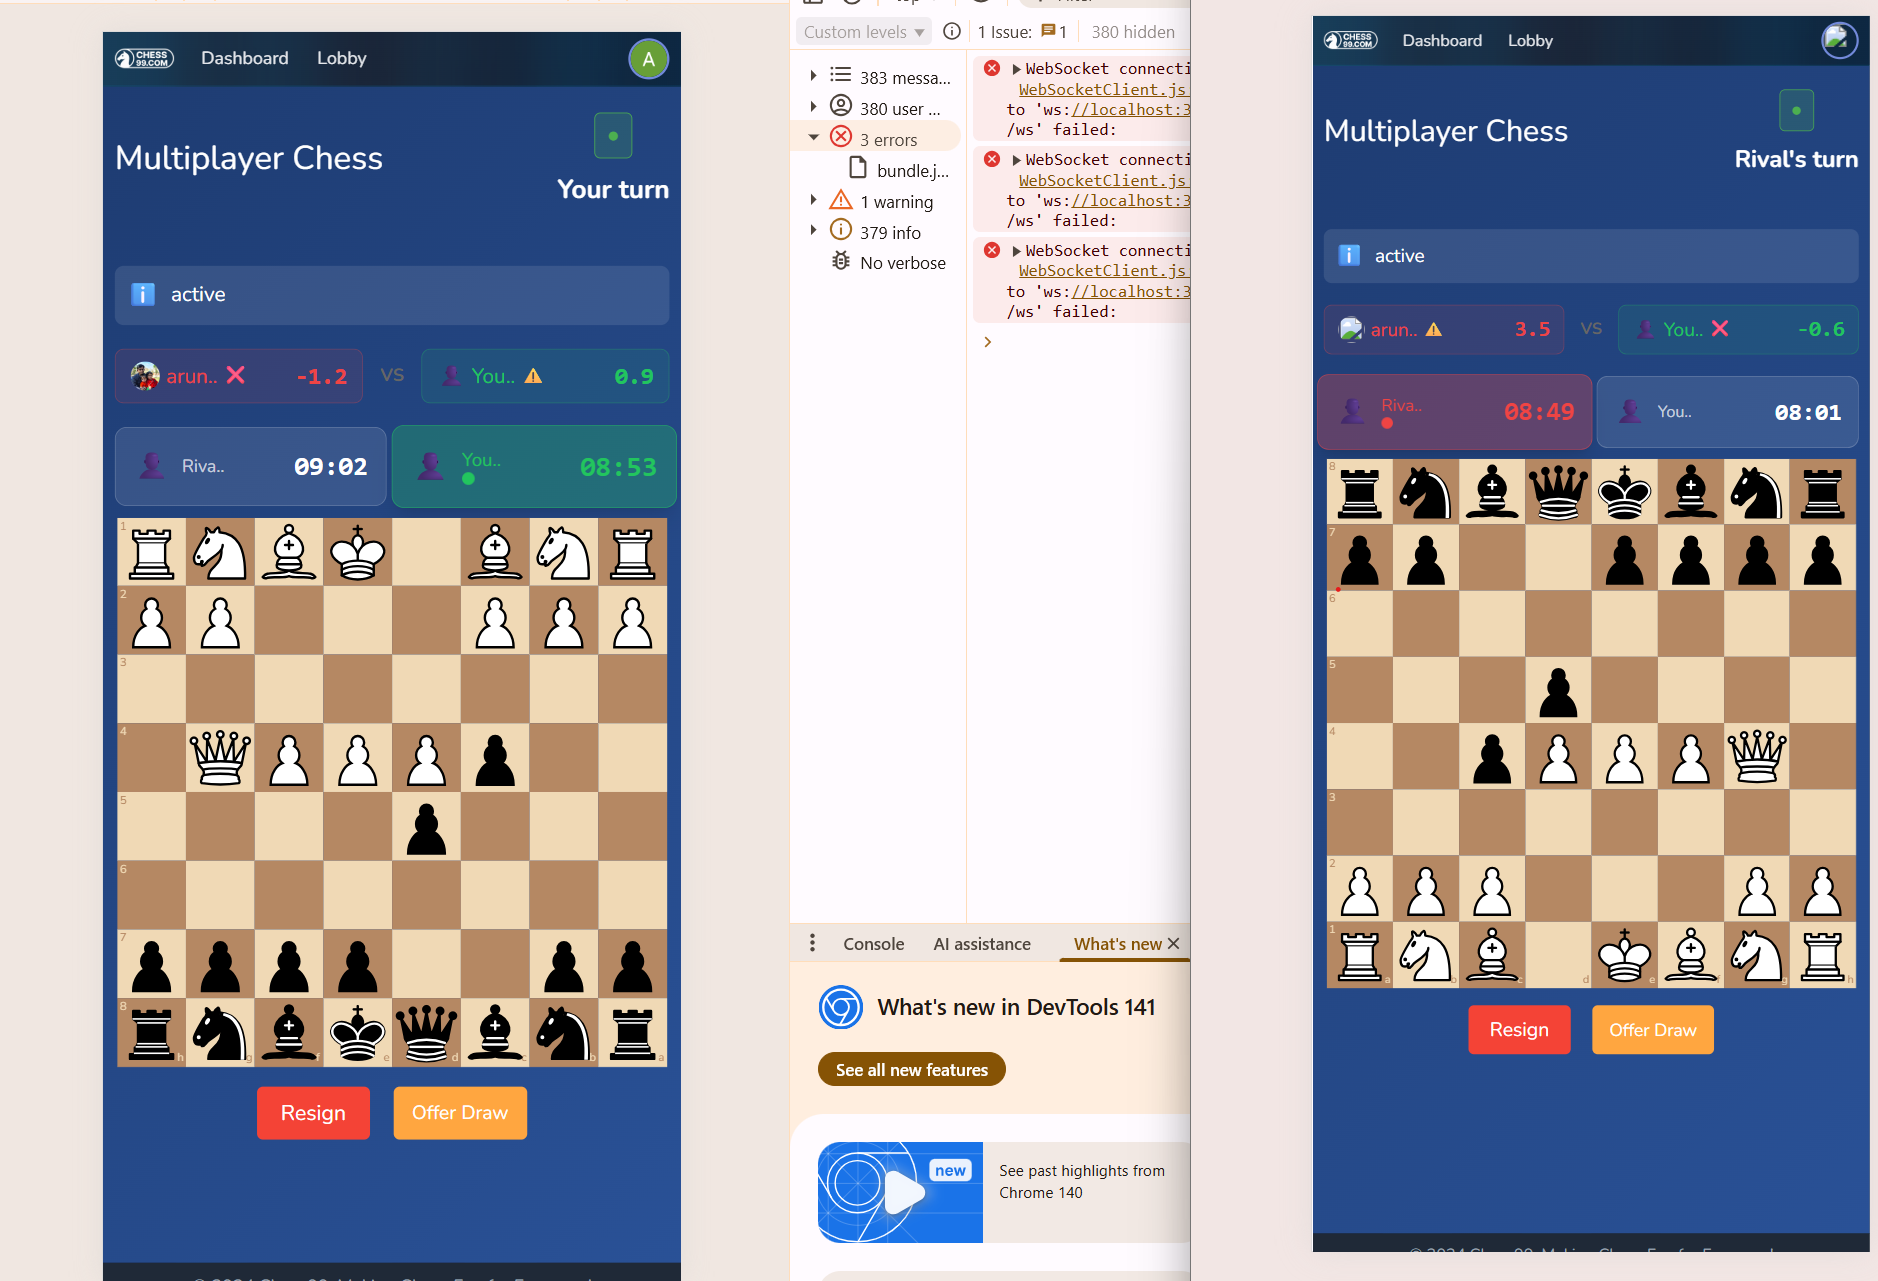
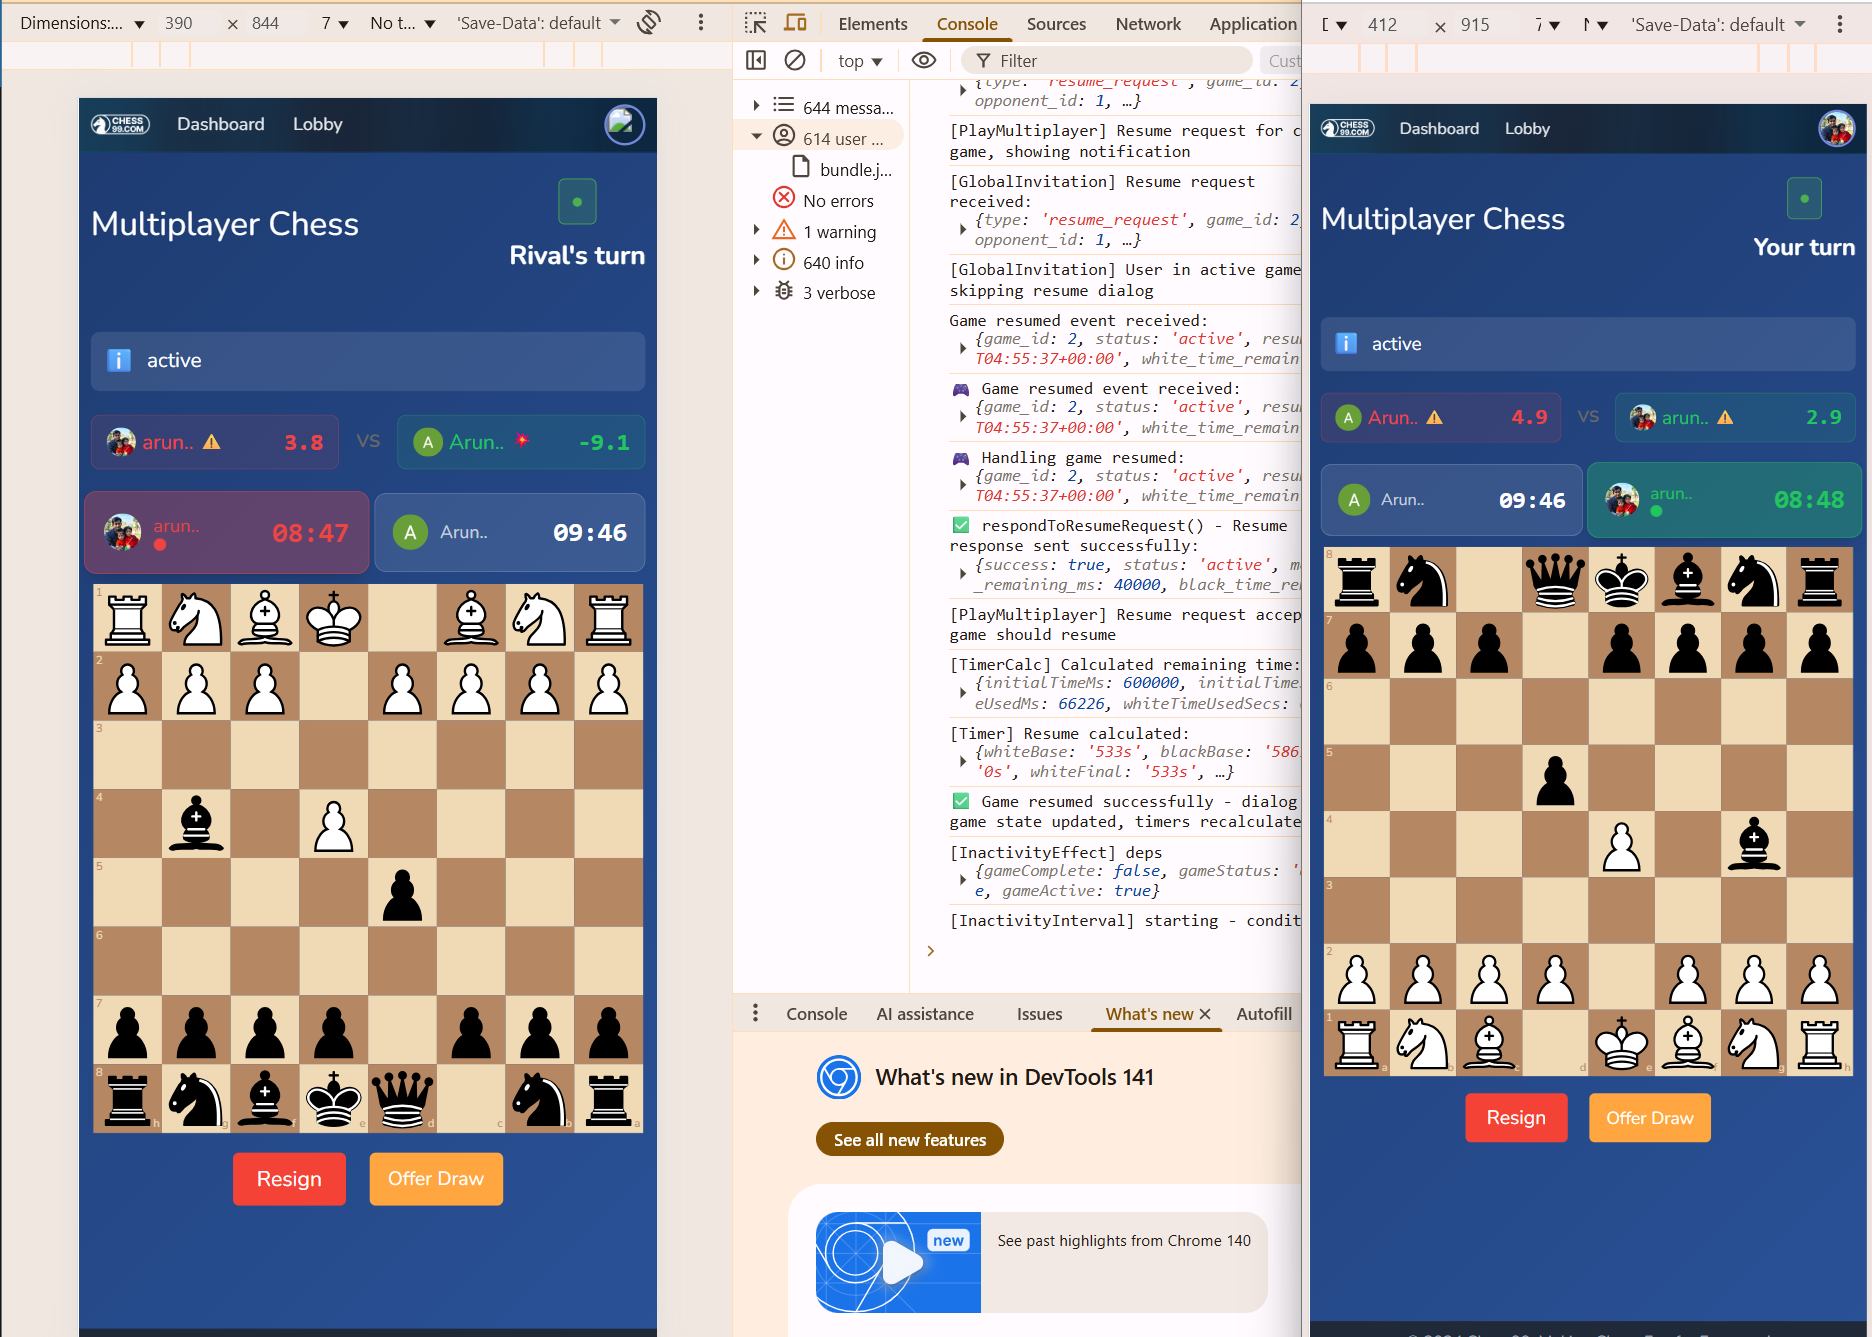
Users being properly displayed in timer and scores rows

diff --git a/chess-frontend/src/components/play/ScoreDisplay.js b/chess-frontend/src/components/play/ScoreDisplay.js
@@ -2,7 +2,16 @@
 import React from "react";
 import { truncatePlayerName, getPlayerAvatar } from '../../utils/playerDisplayUtils';
 
-const ScoreDisplay = ({ playerScore, lastMoveEvaluation, computerScore, lastComputerEvaluation, isOnlineGame, players, playerColor }) => {
+const ScoreDisplay = ({
+  playerScore,
+  lastMoveEvaluation,
+  computerScore,
+  lastComputerEvaluation,
+  isOnlineGame,
+  mode = 'computer',
+  playerData = null,
+  opponentData = null
+}) => {
   const formatScore = (score) => {
     return typeof score === "number" ? score.toFixed(1) : "0.0";
   };
@@ -19,10 +28,43 @@ const ScoreDisplay = ({ playerScore, lastMoveEvaluation, computerScore, lastComp
     }
   };
 
-  const playerData = isOnlineGame && players ? players[playerColor] : null;
-  const opponentData = isOnlineGame && players ? players[playerColor === 'w' ? 'b' : 'w'] : null;
-  const playerName = playerData?.name || "You";
-  const opponentName = opponentData?.name || "CPU";
+  // Helper function to render avatar or icon
+  const renderAvatar = (data, isComputer = false) => {
+    if (isComputer || mode === 'computer') {
+      // Show computer icon for computer mode
+      return <span style={{ fontSize: '14px' }}>🤖</span>;
+    }
+
+    // For multiplayer, show player avatar if available
+    const avatarUrl = getPlayerAvatar(data);
+    if (avatarUrl) {
+      return (
+        <img
+          src={avatarUrl}
+          alt={data?.name || data?.user?.name || 'Player'}
+          style={{
+            width: '20px',
+            height: '20px',
+            borderRadius: '50%',
+            objectFit: 'cover'
+          }}
+        />
+      );
+    }
+
+    // No avatar available - don't show anything
+    return null;
+  };
+
+  // Helper function to get display name
+  const getDisplayName = (data, isComputer = false, fallback = 'Player') => {
+    if (isComputer || mode === 'computer') {
+      return 'CPU';
+    }
+    // Handle both naming conventions: data.name or data.user.name
+    const name = data?.name || data?.user?.name;
+    return truncatePlayerName(name || fallback);
+  };
 
   return (
     <div style={{
@@ -44,24 +86,9 @@ const ScoreDisplay = ({ playerScore, lastMoveEvaluation, computerScore, lastComp
         flex: '1'
       }}>
         <div style={{ display: 'flex', alignItems: 'center', gap: '4px' }}>
-          {isOnlineGame && getPlayerAvatar(opponentData) ? (
-            <img
-              src={getPlayerAvatar(opponentData)}
-              alt={opponentName}
-              style={{
-                width: '20px',
-                height: '20px',
-                borderRadius: '50%',
-                objectFit: 'cover'
-              }}
-            />
-          ) : (
-            <span style={{ fontSize: '14px' }}>
-              {isOnlineGame ? '👤' : '🤖'}
-            </span>
-          )}
+          {renderAvatar(opponentData, mode === 'computer')}
           <span style={{ fontSize: '14px', color: '#ef4444', fontWeight: '500' }}>
-            {isOnlineGame ? truncatePlayerName(opponentName) : opponentName}
+            {getDisplayName(opponentData, mode === 'computer', 'Rival')}
           </span>
           {lastComputerEvaluation && (
             <span style={{ fontSize: '12px', color: '#ef4444' }}>
@@ -102,22 +129,9 @@ const ScoreDisplay = ({ playerScore, lastMoveEvaluation, computerScore, lastComp
         flex: '1'
       }}>
         <div style={{ display: 'flex', alignItems: 'center', gap: '4px' }}>
-          {isOnlineGame && getPlayerAvatar(playerData) ? (
-            <img
-              src={getPlayerAvatar(playerData)}
-              alt={playerName}
-              style={{
-                width: '20px',
-                height: '20px',
-                borderRadius: '50%',
-                objectFit: 'cover'
-              }}
-            />
-          ) : (
-            <span style={{ fontSize: '14px' }}>👤</span>
-          )}
+          {renderAvatar(playerData, false)}
           <span style={{ fontSize: '14px', color: '#22c55e', fontWeight: '500' }}>
-            {isOnlineGame ? truncatePlayerName(playerName) : playerName}
+            {getDisplayName(playerData, false, 'You')}
           </span>
           {lastMoveEvaluation && (
             <span style={{ fontSize: '12px', color: '#22c55e' }}>

diff --git a/chess-frontend/src/components/play/GameContainer.js b/chess-frontend/src/components/play/GameContainer.js
@@ -187,10 +187,10 @@ const GameContainer = ({
               {activeTimer === playerColor && (
                 <span style={{ display: 'inline-block', width: '6px', height: '6px', backgroundColor: '#22c55e', borderRadius: '50%', marginRight: '4px', animation: 'pulse 2s infinite' }}></span>
               )}
-              {playerData?.avatar_url ? (
+              {getPlayerAvatar(playerData) && (
                 <img
-                  src={playerData.avatar_url}
-                  alt={playerData.name || 'You'}
+                  src={getPlayerAvatar(playerData)}
+                  alt={playerData?.name || 'You'}
                   style={{
                     width: '24px',
                     height: '24px',
@@ -198,10 +198,6 @@ const GameContainer = ({
                     objectFit: 'cover'
                   }}
                 />
-              ) : (
-                <span style={{ fontSize: '16px', color: '#22c55e' }}>
-                  👤
-                </span>
               )}
               <div style={{ display: 'flex', flexDirection: 'column', flex: 1 }}>
                 <span style={{ fontSize: '12px', color: '#22c55e', fontWeight: '500' }}>You</span>
@@ -255,7 +251,7 @@ const GameContainer = ({
             {!isMyTurn && (
               <span style={{ display: 'inline-block', width: '6px', height: '6px', backgroundColor: '#ef4444', borderRadius: '50%', marginRight: '4px', animation: 'pulse 2s infinite' }}></span>
             )}
-            {getPlayerAvatar(opponentData) ? (
+            {getPlayerAvatar(opponentData) && (
               <img
                 src={getPlayerAvatar(opponentData)}
                 alt={opponentData?.name || opponentName}
@@ -266,10 +262,6 @@ const GameContainer = ({
                   objectFit: 'cover'
                 }}
               />
-            ) : (
-              <span style={{ fontSize: '16px', color: !isMyTurn ? '#ef4444' : '#ccc' }}>
-                👤
-              </span>
             )}
             <span style={{ fontSize: '14px', color: !isMyTurn ? '#ef4444' : '#ccc', fontWeight: '500' }}>
               {truncatePlayerName(opponentData?.name || opponentName)}
@@ -310,7 +302,7 @@ const GameContainer = ({
             {isMyTurn && (
               <span style={{ display: 'inline-block', width: '6px', height: '6px', backgroundColor: '#22c55e', borderRadius: '50%', marginRight: '4px', animation: 'pulse 2s infinite' }}></span>
             )}
-            {getPlayerAvatar(playerData) ? (
+            {getPlayerAvatar(playerData) && (
               <img
                 src={getPlayerAvatar(playerData)}
                 alt={playerData?.name || 'You'}
@@ -321,10 +313,6 @@ const GameContainer = ({
                   objectFit: 'cover'
                 }}
               />
-            ) : (
-              <span style={{ fontSize: '16px', color: isMyTurn ? '#22c55e' : '#ccc' }}>
-                👤
-              </span>
             )}
             <span style={{ fontSize: '14px', color: isMyTurn ? '#22c55e' : '#ccc', fontWeight: '500' }}>
               {truncatePlayerName(playerData?.name || 'You')}
@@ -376,13 +364,9 @@ const GameContainer = ({
           computerScore={computerScore}
           lastComputerEvaluation={mode === 'computer' ? lastComputerEvaluation : lastOpponentEvaluation}
           isOnlineGame={isOnlineGame}
-          players={mode === 'multiplayer' ? {
-            'w': gameDataObj?.white_player,
-            'b': gameDataObj?.black_player
-          } : players}
-          playerColor={mode === 'multiplayer' && typeof playerColor === 'string' && playerColor.length > 1
-            ? (playerColor === 'white' ? 'w' : 'b')
-            : playerColor}
+          mode={mode}
+          playerData={playerData}
+          opponentData={opponentData}
         />
 
         {/* TimerDisplay - Both modes */}

diff --git a/chess-frontend/src/components/lobby/InvitationsList.jsx b/chess-frontend/src/components/lobby/InvitationsList.jsx
@@ -31,8 +31,8 @@ const InvitationsList = ({
               <div key={invitation.id} className="unified-card horizontal">
                 <img
                   src={
-                    invitation.inviter.avatar ||
-                    `https://i.pravatar.cc/150?u=${invitation.inviter.email}`
+                    invitation.inviter.avatar_url ||
+                    `https://i.pravatar.cc/150?u=${invitation.inviter.email || `user${invitation.inviter.id}`}`
                   }
                   alt={invitation.inviter.name}
                   className="unified-card-avatar"
@@ -88,8 +88,8 @@ const InvitationsList = ({
               <div key={invitation.id} className="unified-card horizontal">
                 <img
                   src={
-                    invitation.invited.avatar ||
-                    `https://i.pravatar.cc/150?u=${invitation.invited.email}`
+                    invitation.invited.avatar_url ||
+                    `https://i.pravatar.cc/150?u=${invitation.invited.email || `user${invitation.invited.id}`}`
                   }
                   alt={invitation.invited.name}
                   className="unified-card-avatar"

diff --git a/chess-frontend/src/components/play/PlayMultiplayer.js b/chess-frontend/src/components/play/PlayMultiplayer.js
@@ -1894,8 +1894,13 @@ const PlayMultiplayer = () => {
         playerScore,
         computerScore: opponentScore,
         showScores: false,
-        playerData: gameInfo.playerColor === 'white' ? gameData?.whitePlayer : gameData?.blackPlayer,
-        opponentData: gameInfo.playerColor === 'white' ? gameData?.blackPlayer : gameData?.whitePlayer
+        // Handle both naming conventions: whitePlayer/blackPlayer (camelCase) and white_player/black_player (snake_case)
+        playerData: gameInfo.playerColor === 'white'
+          ? (gameData?.whitePlayer || gameData?.white_player)
+          : (gameData?.blackPlayer || gameData?.black_player),
+        opponentData: gameInfo.playerColor === 'white'
+          ? (gameData?.blackPlayer || gameData?.black_player)
+          : (gameData?.whitePlayer || gameData?.white_player)
       }}
       gameData={{
         game,

diff --git a/chess-frontend/src/components/invitations/GlobalInvitationDialog.jsx b/chess-frontend/src/components/invitations/GlobalInvitationDialog.jsx
@@ -78,8 +78,8 @@ const GlobalInvitationDialog = () => {
               <div className="invitation-info">
                 <img
                   src={
-                    pendingInvitation.inviter.avatar ||
-                    `https://i.pravatar.cc/150?u=${pendingInvitation.inviter.email}`
+                    pendingInvitation.inviter.avatar_url ||
+                    `https://i.pravatar.cc/150?u=${pendingInvitation.inviter.email || `user${pendingInvitation.inviter.id}`}`
                   }
                   alt={pendingInvitation.inviter.name}
                   className="inviter-avatar"

diff --git a/chess-frontend/src/components/lobby/ActiveGamesList.jsx b/chess-frontend/src/components/lobby/ActiveGamesList.jsx
@@ -33,8 +33,8 @@ const ActiveGamesList = ({ activeGames, currentUserId, onResumeGame }) => {
               <div key={game.id} className="unified-card horizontal">
                 <img
                   src={
-                    opponent?.avatar ||
-                    `https://i.pravatar.cc/150?u=${opponent?.email}`
+                    opponent?.avatar_url ||
+                    `https://i.pravatar.cc/150?u=${opponent?.email || `user${opponent?.id}`}`
                   }
                   alt={opponent?.name}
                   className="unified-card-avatar"

diff --git a/chess-frontend/src/components/Dashboard.js b/chess-frontend/src/components/Dashboard.js
@@ -125,8 +125,8 @@ const Dashboard = () => {
                   <div key={game.id} className="unified-card horizontal">
                     <img
                       src={
-                        opponent?.avatar ||
-                        `https://i.pravatar.cc/150?u=${opponent?.email}`
+                        opponent?.avatar_url ||
+                        `https://i.pravatar.cc/150?u=${opponent?.email || `user${opponent?.id}`}`
                       }
                       alt={opponent?.name}
                       className="unified-card-avatar"

diff --git a/chess-frontend/src/components/lobby/PlayersList.jsx b/chess-frontend/src/components/lobby/PlayersList.jsx
@@ -24,8 +24,8 @@ const PlayersList = ({ players, sentInvitations, onChallenge }) => {
               <div key={player.id || index} className="unified-card horizontal">
                 <img
                   src={
-                    player.avatar ||
-                    `https://i.pravatar.cc/150?u=${player.email}`
+                    player.avatar_url ||
+                    `https://i.pravatar.cc/150?u=${player.email || `user${player.id}`}`
                   }
                   alt={player.name}
                   className="unified-card-avatar"

diff --git a/chess-frontend/src/utils/playerDisplayUtils.js b/chess-frontend/src/utils/playerDisplayUtils.js
@@ -23,7 +23,13 @@ export const truncatePlayerName = (name) => {
  * @returns {string|null} Avatar URL or null if not available
  */
 export const getPlayerAvatar = (playerData) => {
-  return playerData?.avatar_url || playerData?.avatar || null;
+  if (!playerData) return null;
+
+  // Handle different naming conventions from backend
+  return playerData.avatar_url ||
+         playerData.avatar ||
+         playerData.avatarUrl ||
+         null;
 };
 
 /**

diff --git a/chess-frontend/src/components/play/TimerDisplay.js b/chess-frontend/src/components/play/TimerDisplay.js
@@ -43,8 +43,8 @@ const TimerDisplay = ({
       );
     }
 
-    // Fallback to user icon
-    return <span className="text-lg">👤</span>;
+    // No avatar available - don't show anything
+    return null;
   };
 
   // Helper function to get display name

diff --git a/chess-backend/app/Http/Controllers/Auth/SocialAuthController.php b/chess-backend/app/Http/Controllers/Auth/SocialAuthController.php
@@ -61,15 +61,33 @@ class SocialAuthController extends Controller
             Log::info('=== ATTEMPTING TO GET USER FROM GOOGLE ===');
             $socialUser = Socialite::driver($provider)->user();
 
+            // Log the data we got from Google
+            Log::info('=== GOOGLE USER DATA ===');
+            Log::info('Name: ' . $socialUser->getName());
+            Log::info('Email: ' . $socialUser->getEmail());
+            Log::info('ID: ' . $socialUser->getId());
+            Log::info('Avatar URL: ' . $socialUser->getAvatar());
+            Log::info('Raw User Data: ', $socialUser->getRaw());
+
+            $avatarUrl = $socialUser->getAvatar();
+            Log::info('Avatar URL to save: ' . ($avatarUrl ?? 'NULL'));
+
             $user = User::updateOrCreate(
                 ['email' => $socialUser->getEmail()],
                 [
                     'name' => $socialUser->getName(),
                     'provider' => $provider,
                     'provider_id' => $socialUser->getId(),
-                    'avatar_url' => $socialUser->getAvatar() // Save Google profile picture
+                    'avatar_url' => $avatarUrl // Save Google profile picture
                 ]
             );
+
+            Log::info('=== USER CREATED/UPDATED ===');
+            Log::info('User ID: ' . $user->id);
+            Log::info('User Name: ' . $user->name);
+            Log::info('User Email: ' . $user->email);
+            Log::info('Avatar URL from DB: ' . $user->getRawOriginal('avatar_url'));
+            Log::info('Avatar URL after accessor: ' . $user->avatar_url);
 
             $token = $user->createToken('auth_token')->plainTextToken;
 

diff --git a/chess-backend/app/Models/User.php b/chess-backend/app/Models/User.php
@@ -50,8 +50,13 @@ class User extends Authenticatable
             return $value;
         }
 
-        // Fallback to a dynamic avatar based on email
-        return 'https://i.pravatar.cc/150?u=' . urlencode($this->email);
+        // Fallback to a dynamic avatar based on email or ID
+        if ($this->email) {
+            return 'https://i.pravatar.cc/150?u=' . urlencode($this->email);
+        }
+
+        // Final fallback using user ID if email is not available
+        return 'https://i.pravatar.cc/150?u=user' . $this->id;
     }
 
     /**
